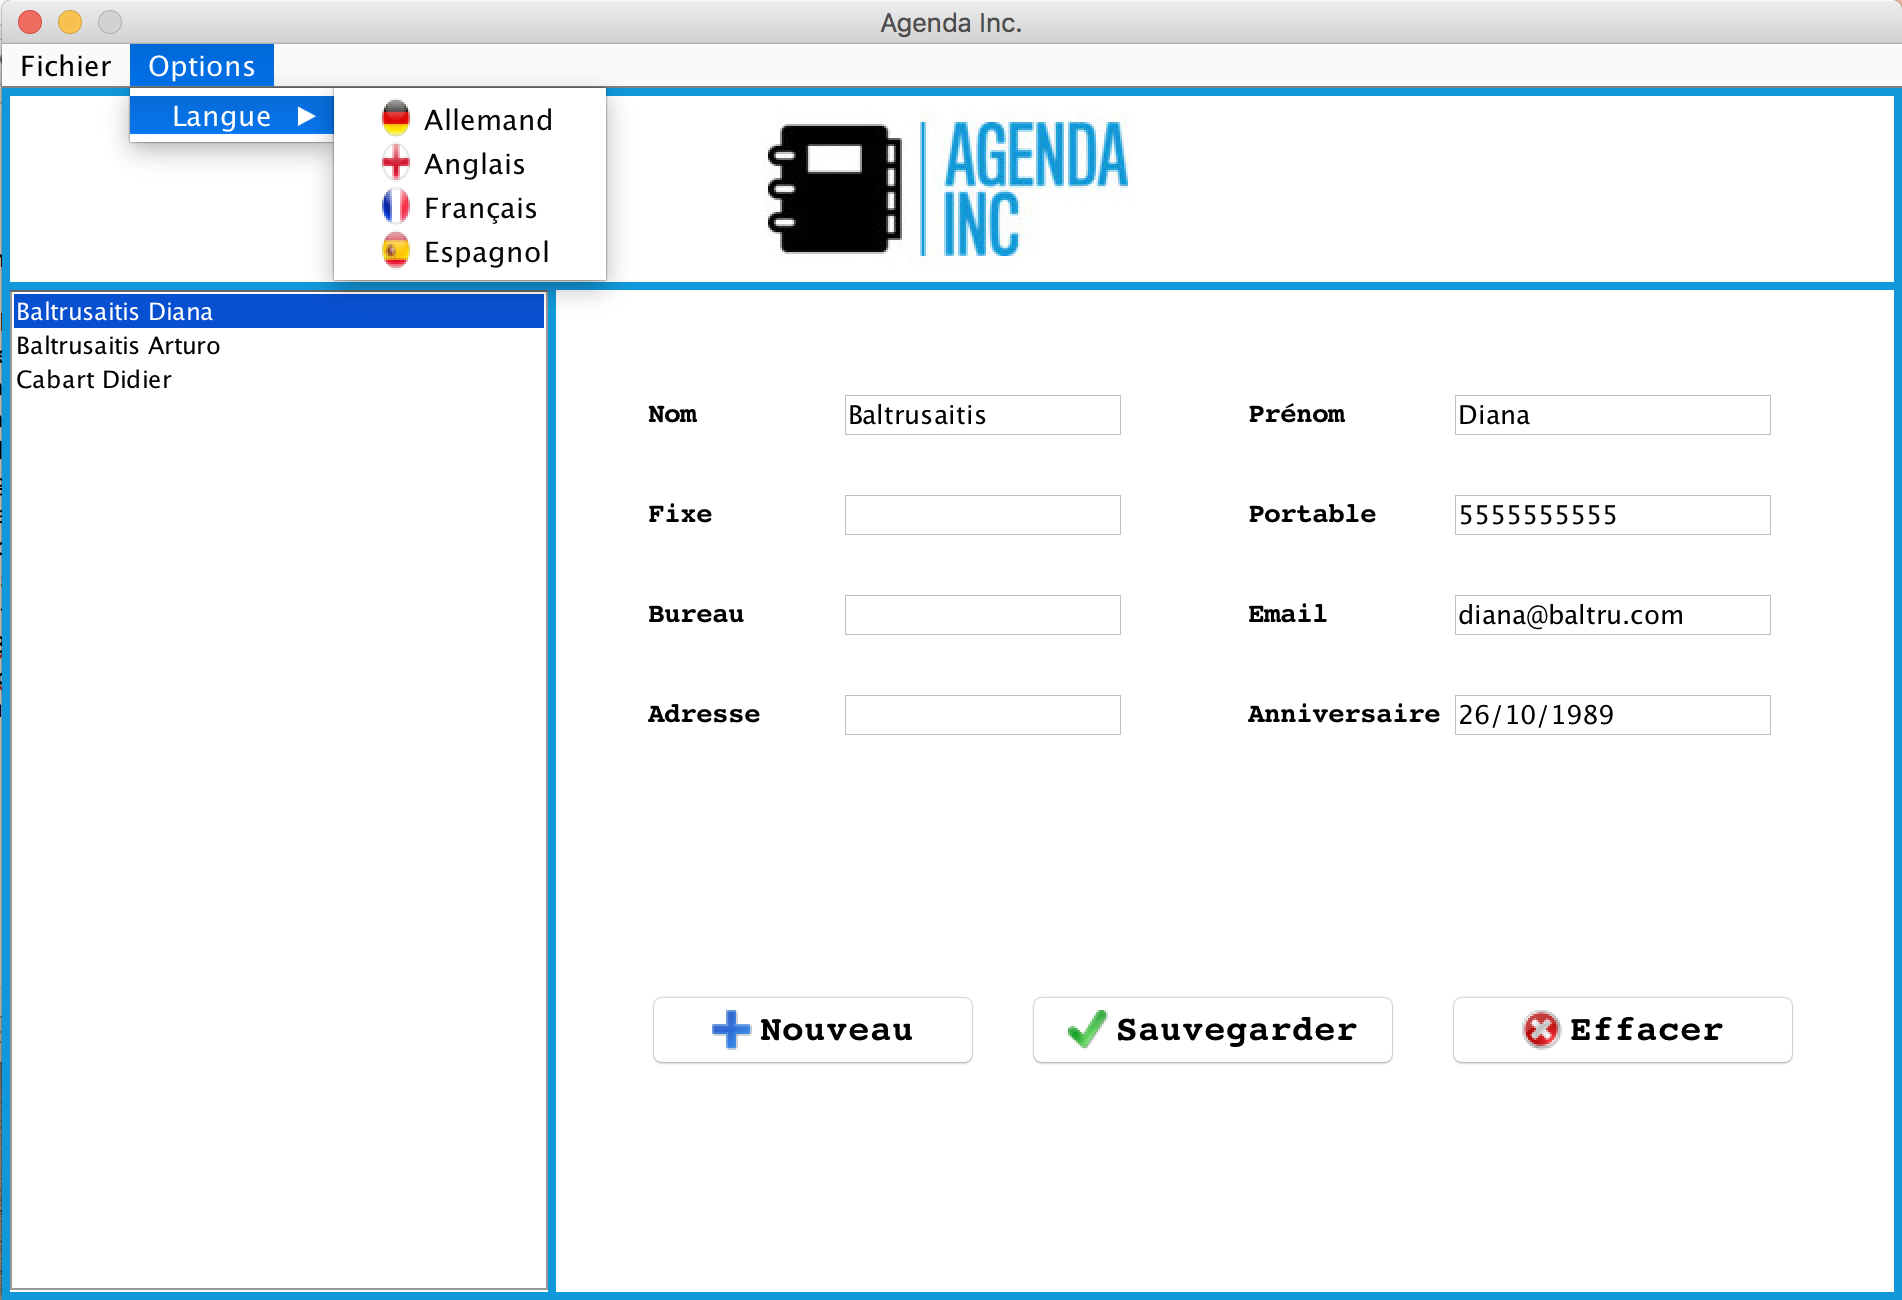
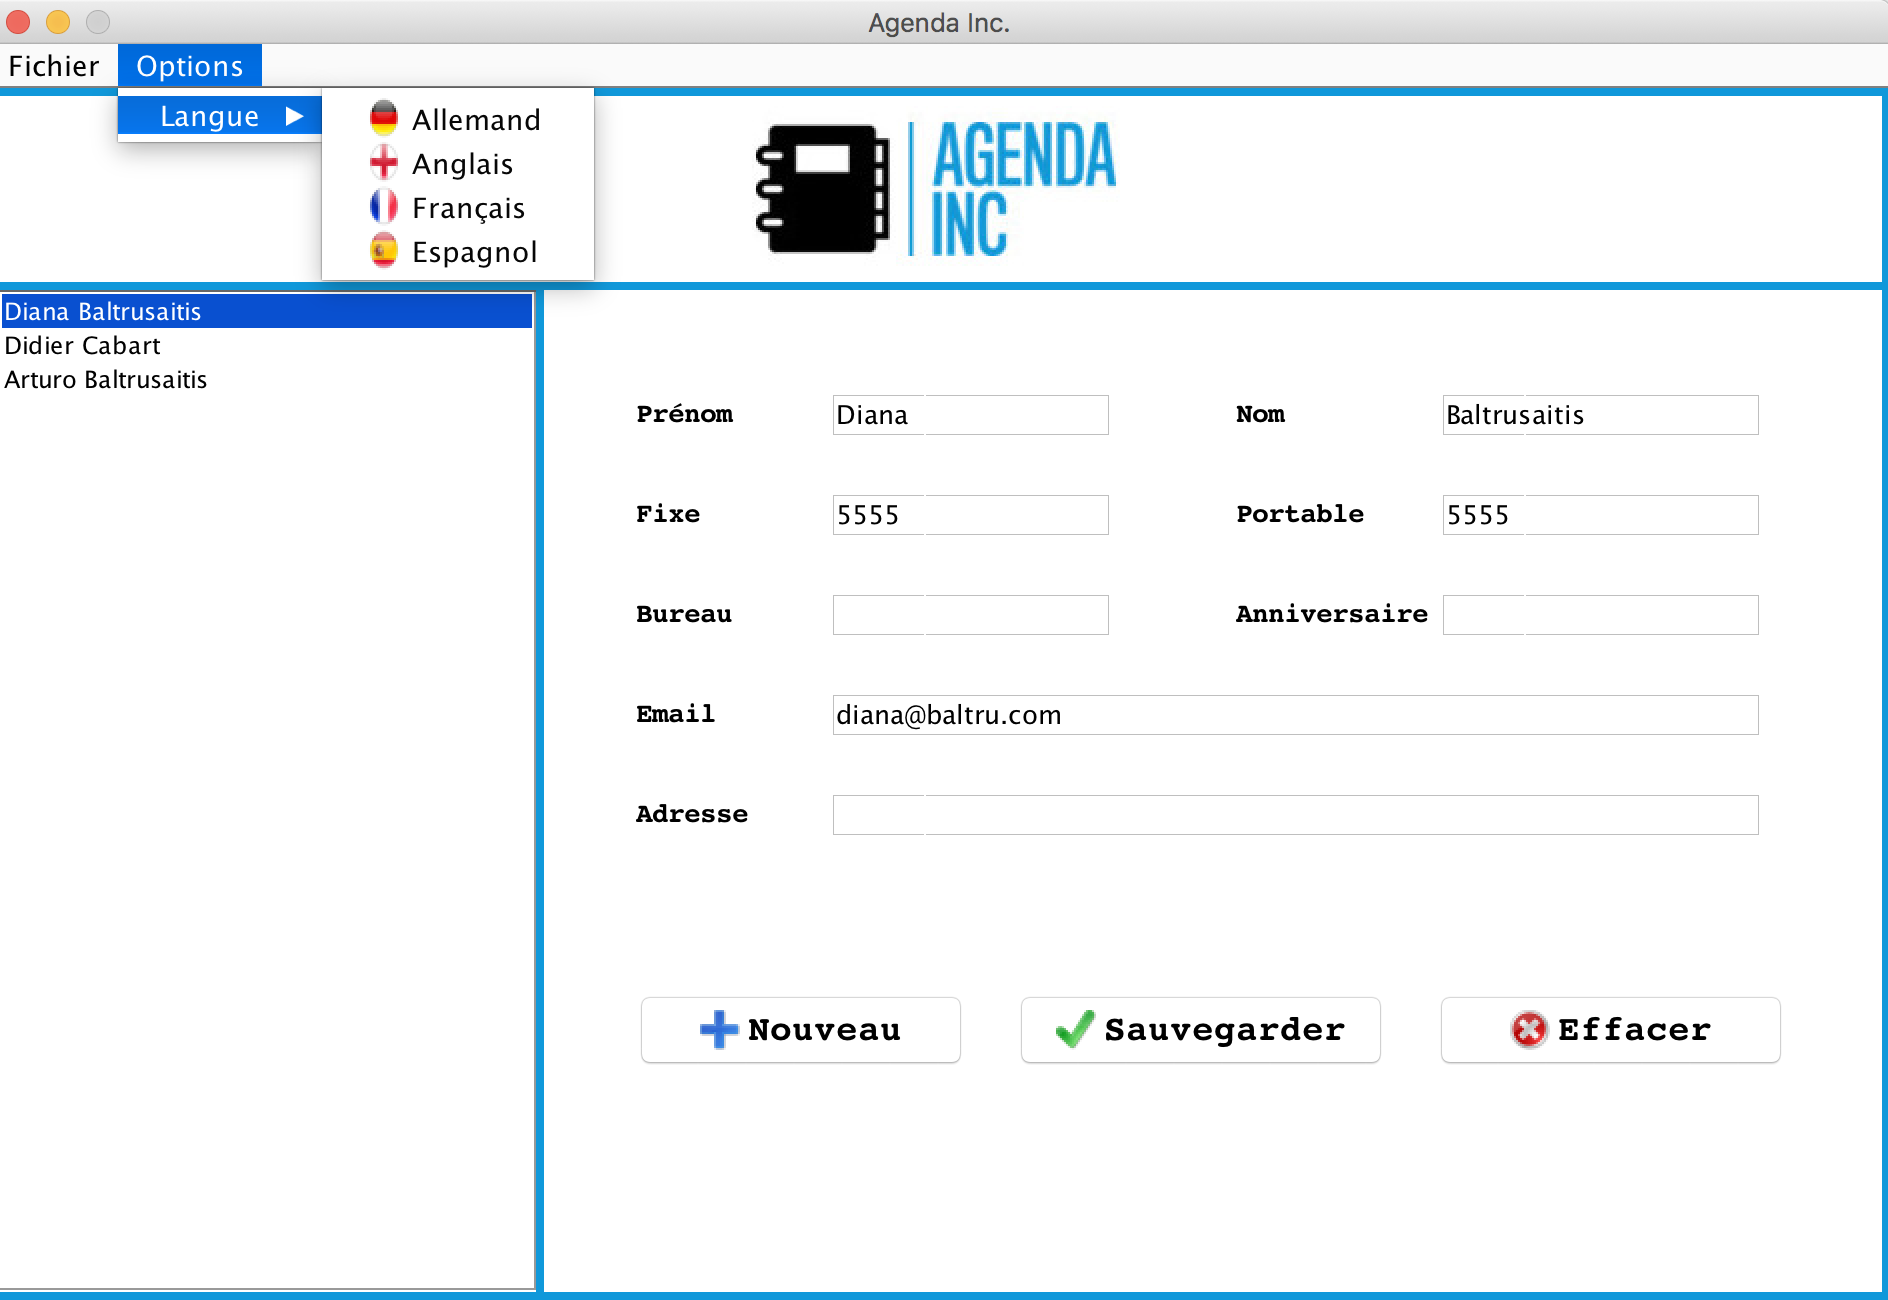
contact form changes

diff --git a/src/view/ContactForm.java b/src/view/ContactForm.java
@@ -147,14 +147,14 @@ public class ContactForm {
 		officePhoneLabel.setBounds(50, 150, 145, 25);
 		officePhone.setBounds(145, 150, 145, 25);
 
-		emailLabel.setBounds(350, 150, 145, 25);
-		email.setBounds(450, 150, 165, 25);
+		birthdayLabel.setBounds(350, 150, 145, 25);
+		birthday.setBounds(450, 150, 165, 25);
 
-		addressLabel.setBounds(50, 200, 145, 25);
-		address.setBounds(145, 200, 145, 25);
-
-		birthdayLabel.setBounds(350, 200, 145, 25);
-		birthday.setBounds(450, 200, 165, 25);
+		emailLabel.setBounds(50, 200, 145, 25);
+		email.setBounds(145, 200, 470, 25);
+		
+		addressLabel.setBounds(50, 250, 145, 25);
+		address.setBounds(145, 250, 470, 25);
 
 		add.setBounds(50, 350, 165, 40);
 		save.setBounds(240, 350, 185, 40);
